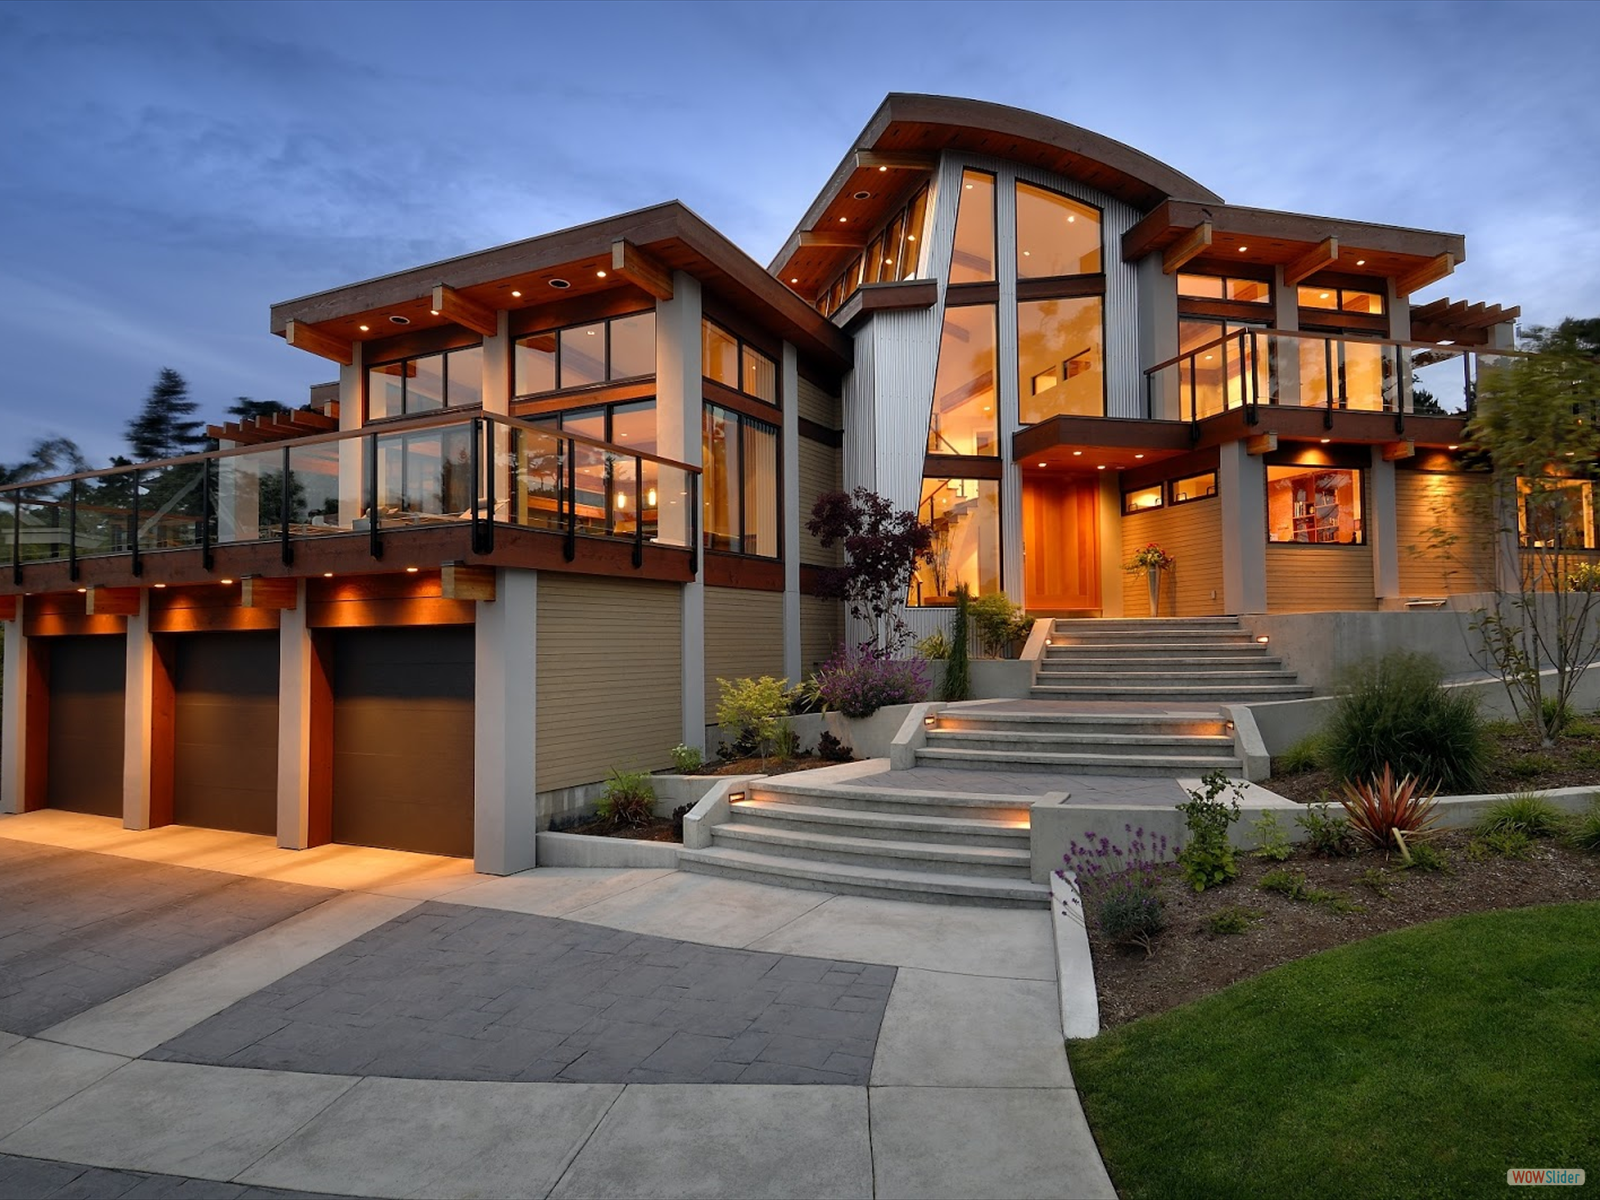
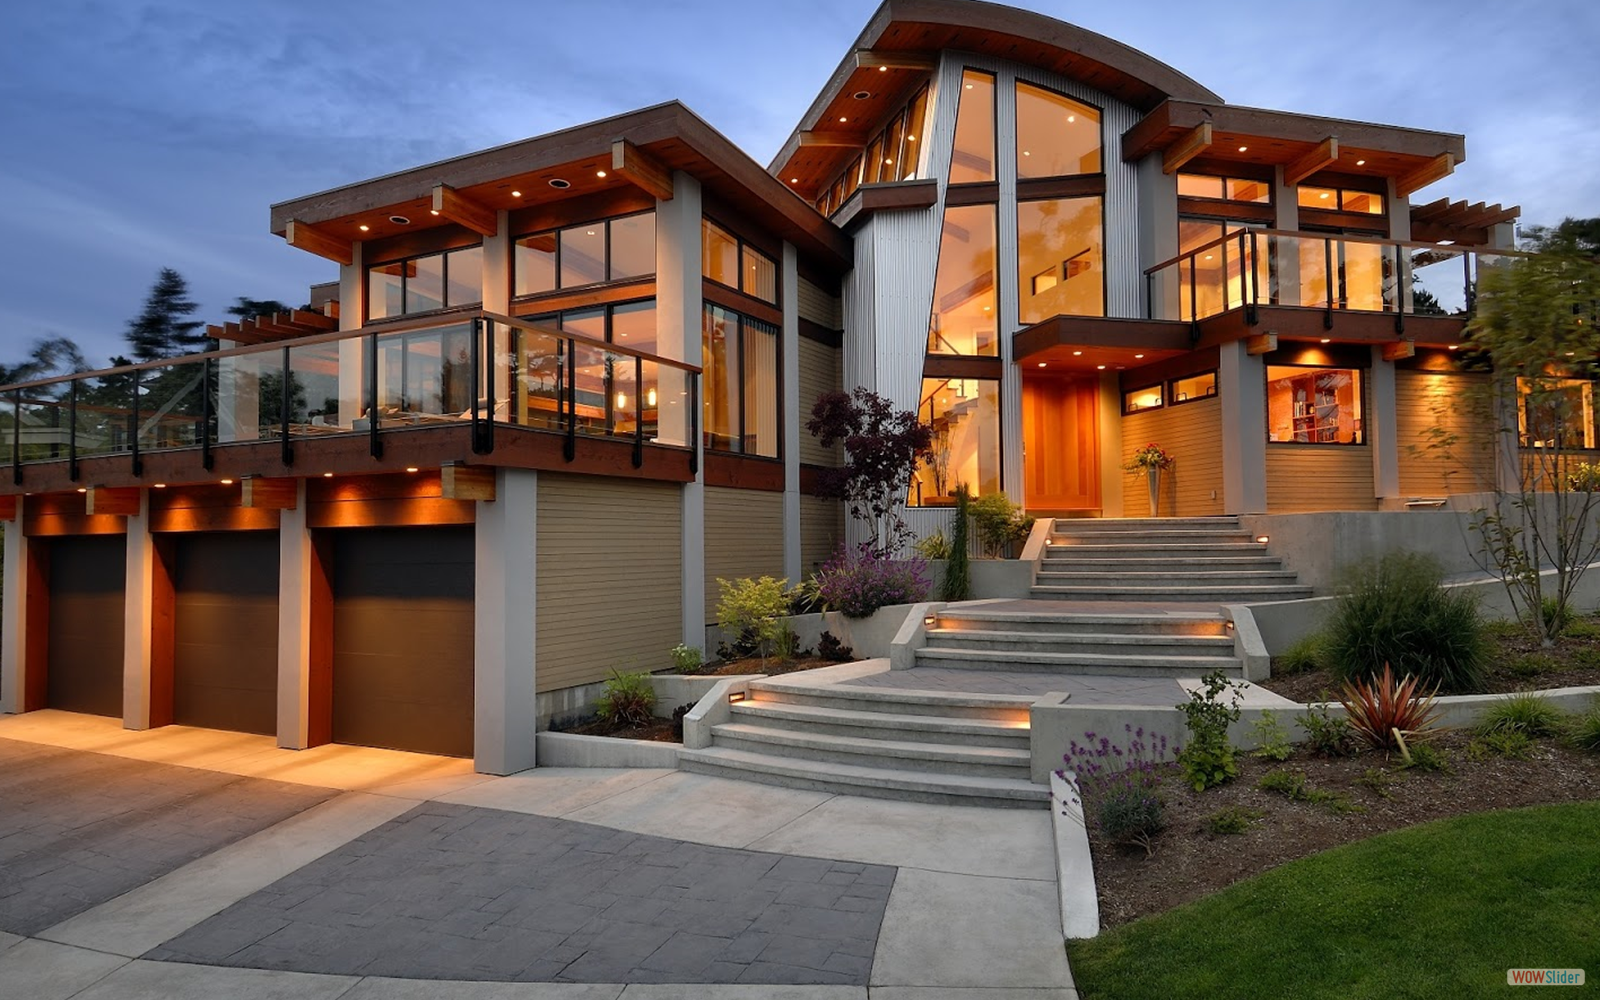
visor
Visor de imagenes modificado en master Jose no lo tienes

diff --git a/public/visorjs/style.css b/public/visorjs/style.css
@@ -9,7 +9,7 @@
 	position: relative;
 	width: 100%;
 	max-width: 100%;
-	max-height:480px;
+	max-height:400px;
 	margin:0px auto 0px;
 	z-index:90;
 	text-align:left; /* reset align=center */
@@ -51,7 +51,7 @@
 	left:0;
 	top:0;
 	height:100%;
-	max-height:480px;
+	max-height:400px;
 	max-width: 100%;
 	vertical-align: top;
 	border:2px solid #FFFFFF;
@@ -60,7 +60,7 @@
 #wowslider-container1 .ws_images ul a{
 	width:100%;
 	height:100%;
-	max-height:480px;
+	max-height:400px;
 	display:block;
 	color:transparent;
 }
@@ -76,7 +76,7 @@
 	margin:0;
 }
 #wowslider-container1 .ws_images > div > img {
-	max-height:480px;
+	max-height:400px;
 }
 
 #wowslider-container1 .ws_images iframe {
@@ -294,13 +294,13 @@
 #wowslider-container1 .ws-title span{
 	color:#404449;
 }#wowslider-container1 .ws_images > ul{
-	animation: wsBasic 44s infinite;
-	-moz-animation: wsBasic 44s infinite;
-	-webkit-animation: wsBasic 44s infinite;
+	animation: wsBasic 48s infinite;
+	-moz-animation: wsBasic 48s infinite;
+	-webkit-animation: wsBasic 48s infinite;
 }
-@keyframes wsBasic{0%{left:-0%} 4.55%{left:-0%} 9.09%{left:-100%} 13.64%{left:-100%} 18.18%{left:-200%} 22.73%{left:-200%} 27.27%{left:-300%} 31.82%{left:-300%} 36.36%{left:-400%} 40.91%{left:-400%} 45.45%{left:-500%} 50%{left:-500%} 54.55%{left:-600%} 59.09%{left:-600%} 63.64%{left:-700%} 68.18%{left:-700%} 72.73%{left:-800%} 77.27%{left:-800%} 81.82%{left:-900%} 86.36%{left:-900%} 90.91%{left:-1000%} 95.45%{left:-1000%} }
-@-moz-keyframes wsBasic{0%{left:-0%} 4.55%{left:-0%} 9.09%{left:-100%} 13.64%{left:-100%} 18.18%{left:-200%} 22.73%{left:-200%} 27.27%{left:-300%} 31.82%{left:-300%} 36.36%{left:-400%} 40.91%{left:-400%} 45.45%{left:-500%} 50%{left:-500%} 54.55%{left:-600%} 59.09%{left:-600%} 63.64%{left:-700%} 68.18%{left:-700%} 72.73%{left:-800%} 77.27%{left:-800%} 81.82%{left:-900%} 86.36%{left:-900%} 90.91%{left:-1000%} 95.45%{left:-1000%} }
-@-webkit-keyframes wsBasic{0%{left:-0%} 4.55%{left:-0%} 9.09%{left:-100%} 13.64%{left:-100%} 18.18%{left:-200%} 22.73%{left:-200%} 27.27%{left:-300%} 31.82%{left:-300%} 36.36%{left:-400%} 40.91%{left:-400%} 45.45%{left:-500%} 50%{left:-500%} 54.55%{left:-600%} 59.09%{left:-600%} 63.64%{left:-700%} 68.18%{left:-700%} 72.73%{left:-800%} 77.27%{left:-800%} 81.82%{left:-900%} 86.36%{left:-900%} 90.91%{left:-1000%} 95.45%{left:-1000%} }
+@keyframes wsBasic{0%{left:-0%} 4.17%{left:-0%} 8.33%{left:-100%} 12.5%{left:-100%} 16.67%{left:-200%} 20.83%{left:-200%} 25%{left:-300%} 29.17%{left:-300%} 33.33%{left:-400%} 37.5%{left:-400%} 41.67%{left:-500%} 45.83%{left:-500%} 50%{left:-600%} 54.17%{left:-600%} 58.33%{left:-700%} 62.5%{left:-700%} 66.67%{left:-800%} 70.83%{left:-800%} 75%{left:-900%} 79.17%{left:-900%} 83.33%{left:-1000%} 87.5%{left:-1000%} 91.67%{left:-1100%} 95.83%{left:-1100%} }
+@-moz-keyframes wsBasic{0%{left:-0%} 4.17%{left:-0%} 8.33%{left:-100%} 12.5%{left:-100%} 16.67%{left:-200%} 20.83%{left:-200%} 25%{left:-300%} 29.17%{left:-300%} 33.33%{left:-400%} 37.5%{left:-400%} 41.67%{left:-500%} 45.83%{left:-500%} 50%{left:-600%} 54.17%{left:-600%} 58.33%{left:-700%} 62.5%{left:-700%} 66.67%{left:-800%} 70.83%{left:-800%} 75%{left:-900%} 79.17%{left:-900%} 83.33%{left:-1000%} 87.5%{left:-1000%} 91.67%{left:-1100%} 95.83%{left:-1100%} }
+@-webkit-keyframes wsBasic{0%{left:-0%} 4.17%{left:-0%} 8.33%{left:-100%} 12.5%{left:-100%} 16.67%{left:-200%} 20.83%{left:-200%} 25%{left:-300%} 29.17%{left:-300%} 33.33%{left:-400%} 37.5%{left:-400%} 41.67%{left:-500%} 45.83%{left:-500%} 50%{left:-600%} 54.17%{left:-600%} 58.33%{left:-700%} 62.5%{left:-700%} 66.67%{left:-800%} 70.83%{left:-800%} 75%{left:-900%} 79.17%{left:-900%} 83.33%{left:-1000%} 87.5%{left:-1000%} 91.67%{left:-1100%} 95.83%{left:-1100%} }
 
 #wowslider-container1 .ws_images {
     box-shadow: 0px 0px 2px rgba(100, 100, 100, 0.7);	
@@ -311,7 +311,7 @@
 	text-indent:0;
 	display:block;
 	bottom:20px;
-	left:-32px;
+	left:-38px;
 	visibility:hidden;
 	position:absolute;
     border: 4px solid #FFFFFF;
@@ -333,7 +333,7 @@
 	left:0;
 	overflow:hidden;
 	position:relative;
-	width:64px;
+	width:76px;
 	background-color:#FFFFFF;
 }
 #wowslider-container1  .ws_bullets .ws_bulframe{
@@ -352,7 +352,7 @@
 	position:absolute;
 	bottom:-12px;
 	margin-left:-4px;
-	left:32px;
+	left:38px;
 	background:url(./triangle.png);
 	width:15px;
 	height:8px;

diff --git a/public/visorjs/script.js b/public/visorjs/script.js
@@ -18,4 +18,4 @@ jQuery.extend(jQuery.easing,{easeOutBack:function(e,f,a,i,h,g){if(g==undefined){
 // Obfuscated by Javascript Obfuscator
 // http://javascript-source.com
 //***********************************************
-jQuery("#wowslider-container1").wowSlider({effect:"lines",prev:"",next:"",duration:20*100,delay:20*100,width:640,height:480,autoPlay:true,autoPlayVideo:false,playPause:true,stopOnHover:false,loop:false,bullets:1,caption:true,captionEffect:"parallax",controls:true,controlsThumb:false,responsive:2,fullScreen:false,gestures:2,onBeforeStep:0,images:0});
+jQuery("#wowslider-container1").wowSlider({effect:"lines",prev:"",next:"",duration:20*100,delay:20*100,width:640,height:400,autoPlay:true,autoPlayVideo:false,playPause:true,stopOnHover:false,loop:false,bullets:1,caption:true,captionEffect:"parallax",controls:true,controlsThumb:false,responsive:2,fullScreen:false,gestures:2,onBeforeStep:0,images:0});

diff --git a/application/views/partes/p_visor.php b/application/views/partes/p_visor.php
@@ -1,32 +1,37 @@
+
+
 <!-- Start WOWSlider.com BODY section -->
 <div id="wowslider-container1">
 <div class="ws_images"><ul>
-		<li><img src="<?php echo base_url('upload/0_1.png');?>" alt="Bello Hogar" title="Bello Hogar" id="wows1_0"/></li>
-		<li><img src="<?php echo base_url('public/visordata/images/1_1.png');?>" alt="1_1" title="Siente la brisa en tu propia casa" id="wows1_1"/></li>
-		<li><img src="<?php echo base_url('public/visordata/images/2_1.png');?>" alt="2_1" title="Vive momentos especiales bajo tu propio techo" id="wows1_2"/></li>
-		<li><img src="<?php echo base_url('public/visordata/images/3_1.png');?>" alt="3_1" title="Vivirás tiempos de diversión en familia" id="wows1_3"/></li>
-		<li><img src="<?php echo base_url('public/visordata/images/4_1.png');?>" alt="4_1" title="GENERALES Y ÁREAS SOCIALES" id="wows1_4"/></li>
-		<li><img src="<?php echo base_url('public/visordata/images/5_1.png');?>" alt="5_1" title="A pocos pasos de ti" id="wows1_5"/></li>
-		<li><img src="<?php echo base_url('public/visordata/images/6_1.png');?>" alt="6_1" title="Encuentra los que buscas" id="wows1_6"/></li>
-		<li><img src="<?php echo base_url('public/visordata/images/7_1.png');?>" alt="7_1" title="Aqui lo tienes todo" id="wows1_7"/></li>
-		<li><img src="<?php echo base_url('public/visordata/images/8_1.png');?>" alt="8_1" title="Disfruta de nuestros inmuebles" id="wows1_8"/></li>
-		<li><a href="http://wowslider.com/vi"><img src="<?php echo base_url('public/visordata/images/9_1.png')?>" alt="bootstrap carousel" title="Tu inmobiliaria de confianza" id="wows1_9"/></a></li>
-		<li><img src="<?php echo base_url('public/visordata/images/22_1.png')?>" alt="22_1" title="INMOBIITLA" id="wows1_10"/></li>
+		<li><img src="<?php echo base_url('public/visordata/images/1.jpg');?>" alt="1" title="Siente la brisa en tu propia casa" id="wows1_0"/></li>
+		<li><img src="<?php echo base_url('public/visordata/images/2.jpg');?>" alt="2" title="Vive momentos especiales bajo tu propio techo" id="wows1_1"/></li>
+		<li><img src="<?php echo base_url('public/visordata/images/3.jpg');?>" alt="3" title="Vivirás tiempos de diversión en familia" id="wows1_2"/></li>
+		<li><img src="<?php echo base_url('public/visordata/images/4.jpg');?>" alt="4" title="GENERALES Y ÁREAS SOCIALES" id="wows1_3"/></li>
+		<li><img src="<?php echo base_url('public/visordata/images/4_0.png');?>" alt="4" title="A pocos pasos de ti" id="wows1_4"/></li>
+		<li><img src="<?php echo base_url('public/visordata/images/5.jpg');?>" alt="5" title="Encuentra los que buscas" id="wows1_5"/></li>
+		<li><img src="<?php echo base_url('public/visordata/images/7_1.png');?>" alt="7_1" title="Aqui lo tienes todo" id="wows1_6"/></li>
+		<li><img src="<?php echo base_url('public/visordata/images/8.jpg');?>" alt="8" title="Disfruta de nuestros inmuebles" id="wows1_7"/></li>
+		<li><img src="<?php echo base_url('public/visordata/images/88.jpg');?>" alt="88" title="88" id="wows1_8"/></li>
+		<li><img src="<?php echo base_url('public/visordata/images/99.png');?>" alt="99" title="99" id="wows1_9"/></li>
+		<li><a href="http://wowslider.com/vi"><img src="<?php echo base_url('public/visordata/images/888.jpg');?>" alt="slider" title="Tu inmobiliaria de confianza" id="wows1_10"/></a></li>
+		<li><img src="<?php echo base_url('public/visordata/images/img.jpg');?>" alt="img" title="INMOBIITLA" id="wows1_11"/></li>
 	</ul></div>
 	<div class="ws_bullets"><div>
-		<a href="#" title="Bello Hogar"><span><img src="<?php echo base_url('public/visordata/tooltips/0_1.png')?>" alt="Bello Hogar"/>1</span></a>
-		<a href="#" title="1_1"><span><img src="<?php echo base_url('public/visordata/tooltips/1_1.png') ?>" alt="1_1"/>2</span></a>
-		<a href="#" title="2_1"><span><img src="<?php echo base_url('public/visordata/tooltips/2_1.png') ?>" alt="2_1"/>3</span></a>
-		<a href="#" title="3_1"><span><img src="<?php echo base_url('public/visordata/tooltips/3_1.png') ?>" alt="3_1"/>4</span></a>
-		<a href="#" title="4_1"><span><img src="<?php echo base_url('public/visordata/tooltips/4_1.png') ?>" alt="4_1"/>5</span></a>
-		<a href="#" title="5_1"><span><img src="<?php echo base_url('public/visordata/tooltips/5_1.png') ?>" alt="5_1"/>6</span></a>
-		<a href="#" title="6_1"><span><img src="<?php echo base_url('public/visordata/tooltips/6_1.png') ?>" alt="6_1"/>7</span></a>
-		<a href="#" title="7_1"><span><img src="<?php echo base_url('public/visordata/tooltips/7_1.png') ?>" alt="7_1"/>8</span></a>
-		<a href="#" title="8_1"><span><img src="<?php echo base_url('public/visordata/tooltips/8_1.png') ?>" alt="8_1"/>9</span></a>
-		<a href="#" title="9_1"><span><img src="<?php echo base_url('public/visordata/tooltips/9_1.png') ?>" alt="9_1"/>10</span></a>
-		<a href="#" title="22_1"><span><img src="<?php echo base_url('public/visordata/tooltips/22_1.png') ?>" alt="22_1"/>11</span></a>
-	</div></div><div class="ws_script" style="position:absolute;left:-99%"><a href="http://wowslider.net">wowslider.net</a> by WOWSlider.com v8.7</div>
+		<a href="#" title="1"><span><img src="<?php echo base_url('public/visordata/tooltips/1.jpg');?>" alt="1"/>1</span></a>
+		<a href="#" title="2"><span><img src="<?php echo base_url('public/visordata/tooltips/2.jpg');?>" alt="2"/>2</span></a>
+		<a href="#" title="3"><span><img src="<?php echo base_url('public/visordata/tooltips/3.jpg');?>" alt="3"/>3</span></a>
+		<a href="#" title="4"><span><img src="<?php echo base_url('public/visordata/tooltips/4.jpg');?>" alt="4"/>4</span></a>
+		<a href="#" title="4"><span><img src="<?php echo base_url('public/visordata/tooltips/4_0.png');?>" alt="4"/>5</span></a>
+		<a href="#" title="5"><span><img src="<?php echo base_url('public/visordata/tooltips/5.jpg');?>" alt="5"/>6</span></a>
+		<a href="#" title="7_1"><span><img src="<?php echo base_url('public/visordata/tooltips/7_1.png');?>" alt="7_1"/>7</span></a>
+		<a href="#" title="8"><span><img src="<?php echo base_url('public/visordata/tooltips/8.jpg');?>" alt="8"/>8</span></a>
+		<a href="#" title="88"><span><img src="<?php echo base_url('public/visordata/tooltips/88.jpg');?>" alt="88"/>9</span></a>
+		<a href="#" title="99"><span><img src="<?php echo base_url('public/visordata/tooltips/99.png');?>" alt="99"/>10</span></a>
+		<a href="#" title="888"><span><img src="<?php echo base_url('public/visordata/tooltips/888.jpg');?>" alt="888"/>11</span></a>
+		<a href="#" title="img"><span><img src="<?php echo base_url('public/visordata/tooltips/img.jpg');?>" alt="img"/>12</span></a>
+	</div></div><div class="ws_script" style="position:absolute;left:-99%"><a href="http://wowslider.net">jquery slideshow</a> by WOWSlider.com v8.7</div>
 <div class="ws_shadow"></div>
 </div>
+
 
 <!-- End WOWSlider.com BODY section -->
